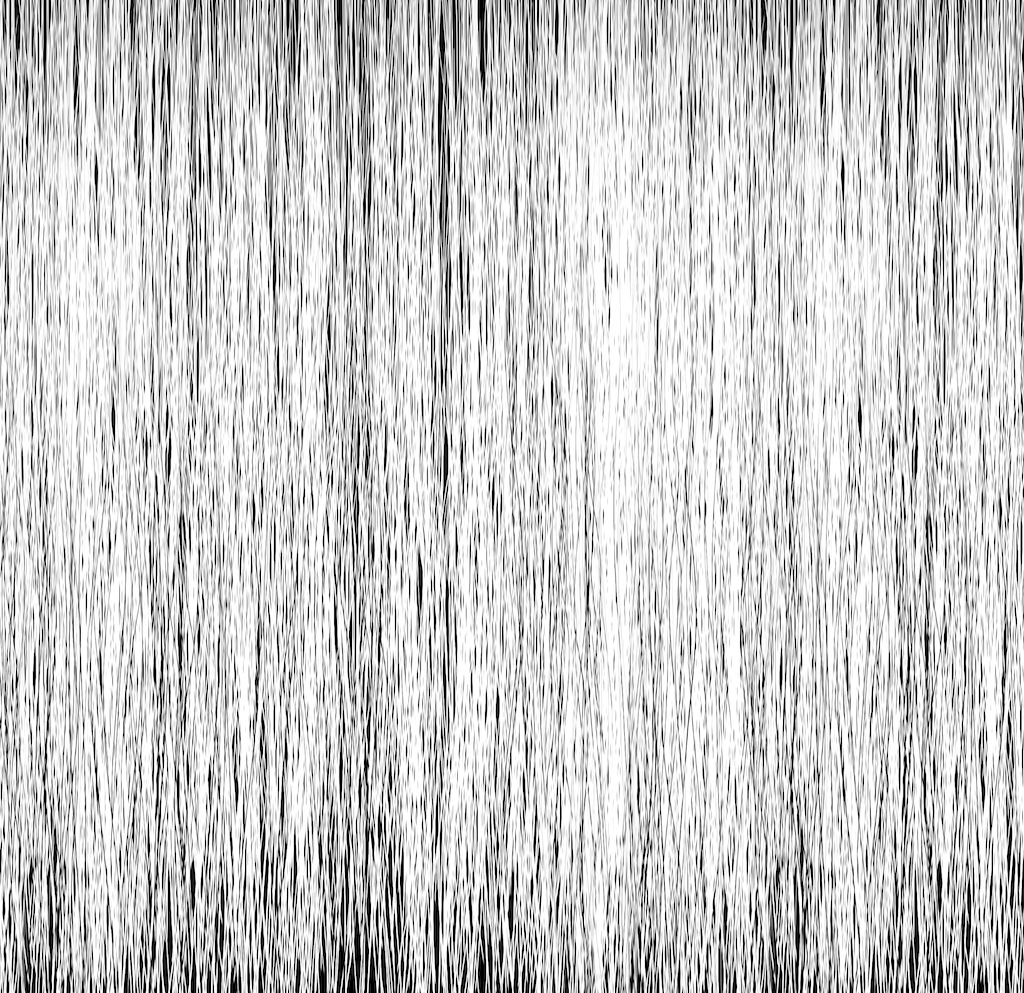
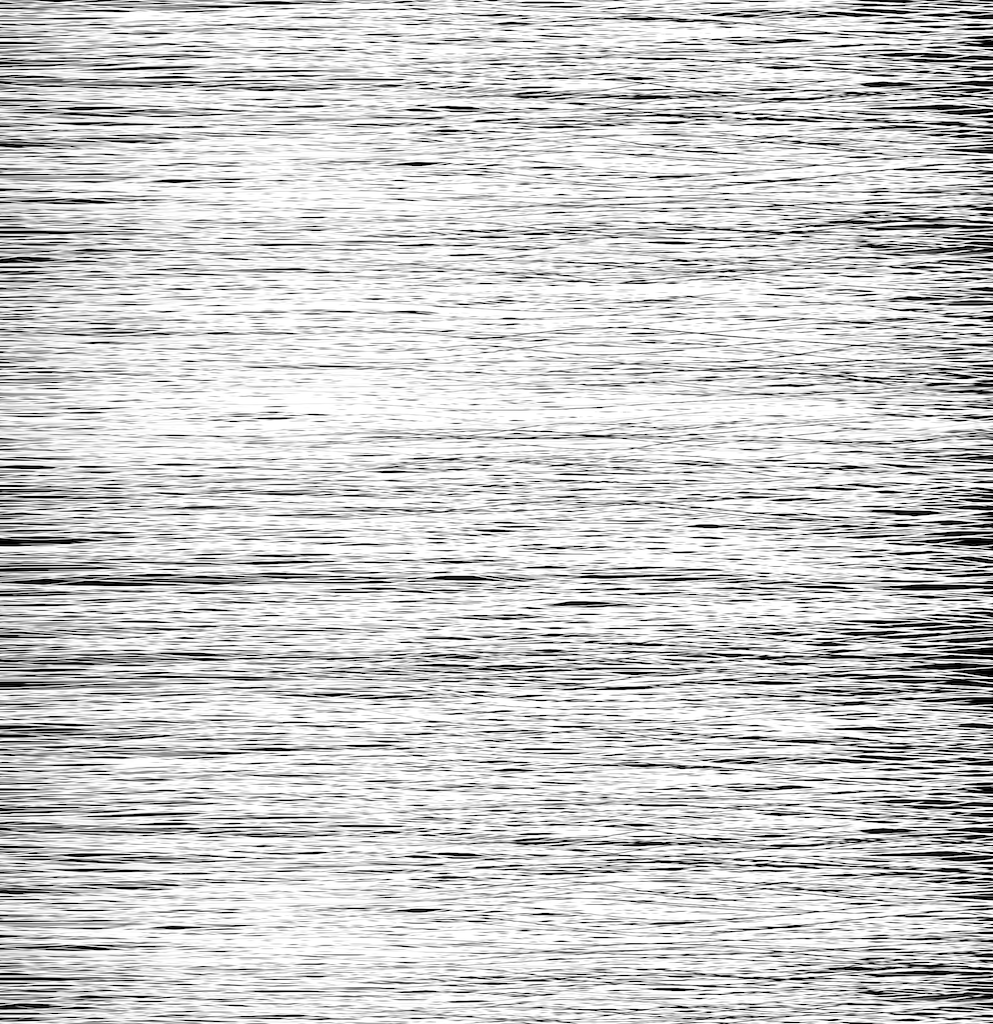
save

diff --git a/src/index.ts b/src/index.ts
@@ -20,6 +20,7 @@ engine.canvas.resizeByClientSize();
 
 const scene = engine.sceneManager.activeScene;
 const {ambientLight, background} = scene;
+ambientLight.diffuseSolidColor.set(1, 1, 1, 1);
 const rootEntity = scene.createRootEntity();
 
 const directLightNode = rootEntity.createChild("dir_light");
@@ -95,27 +96,26 @@ float hairStrandSpecular(vec3 T, vec3 V, vec3 L, float specPower) {
 	float sinTH = sqrt(1.0 - HdotT * HdotT);
 	float dirAtten = smoothstep(-u_specularWidth, 0.0, HdotT);
 	
-	return dirAtten * clamp(pow(sinTH, specPower), 0.0, 1.0) * u_specularScale;
+	return dirAtten * pow(sinTH, specPower);
 }
 
-vec4 getAmbientAndDiffuse(vec4 lightColor0, vec4 diffuseColor, vec3 N, vec3 L, vec2 uv) {
-	return (lightColor0 * diffuseColor * clamp(dot(N, L), 0.0, 1.0) + vec4(0.2, 0.2, 0.2, 1.0)) * u_hairTex_ST;
-}
-
-vec4 getSpecular(vec4 lightColor0, 
-				   vec4 primaryColor, float primaryShift,
+vec4 getSpecular(vec4 primaryColor, float primaryShift,
 				   vec4 secondaryColor, float secondaryShift,
 				   vec3 N, vec3 T, vec3 V, vec3 L, float specPower, vec2 uv) {
 	float shiftTex = texture2D(u_specularShift, uv).r - 0.5;
 
-	vec3 t1 = shiftTangent(T, N, primaryShift + shiftTex);
-	vec3 t2 = shiftTangent(T, N, secondaryShift + shiftTex);
+	vec3 t1 = shiftTangent(T, N, primaryShift);
+	vec3 t2 = shiftTangent(T, N, secondaryShift);
 
 	vec4 specular = vec4(0.0, 0.0, 0.0, 0.0);
-	specular += primaryColor * hairStrandSpecular(t1, V, L, specPower) * u_specularScale;;
-	specular += secondaryColor * hairStrandSpecular(t2, V, L, specPower) * u_specularScale;
+	specular += primaryColor * hairStrandSpecular(t1, V, L, specPower);
+	specular += secondaryColor * hairStrandSpecular(t2, V, L, specPower);
 
 	return specular;
+}
+
+vec4 getAmbientAndDiffuse(vec4 diffuseColor, vec3 N, vec3 L) {
+	return diffuseColor * clamp(mix(0.25, 1.0, dot(N, L)), 0.0, 1.0);
 }
 
 void main() {
@@ -124,53 +124,38 @@ void main() {
     vec3 T = tbn[0];
 	vec3 B = tbn[1];
 	vec3 V = normalize(v_pos);
-	vec3 L = normalize(u_directLightDirection[0]);
+	vec3 L = normalize(vec3(1.0, 1.0, 1.0)); // todo
 	vec3 H = normalize(L + V);
 	vec4 u_lightColor0 = vec4(u_directLightColor[0], 1.0);
 
-	vec4 ambientdiffuse = getAmbientAndDiffuse(u_lightColor0, vec4(u_envMapLight.diffuse, 1.0), N, L, v_uv);
-	vec4 specular = getSpecular(u_lightColor0, u_primaryColor, u_primaryShift, 
+	vec4 ambientdiffuse = getAmbientAndDiffuse(vec4(u_envMapLight.diffuse, 1.0), N, L);
+	vec4 specular = getSpecular(u_primaryColor, u_primaryShift, 
 								u_secondaryColor, u_secondaryShift, N, B, V, L, u_specPower, v_uv);
                 
-	glFragColor = ambientdiffuse + specular;
+	glFragColor = (ambientdiffuse + specular) * u_hairTex_ST * u_lightColor0;
 }
 `);
 
-const leftHair = new HairMaterial(engine);
-const leftHairColor = new Color();
-const rightHair = new HairMaterial(engine);
-const rightHairColor = new Color();
-
 Promise.all([
     engine.resourceManager
-        .load<GLTFResource>("http://30.46.128.43:8000/hair.glb")
+        .load<GLTFResource>("https://gw.alipayobjects.com/os/OasisHub/676000145/1682/Pocolov%252520Hair%25252016.gltf")
         .then((gltf) => {
             const entity = rootEntity.createChild("hair");
             entity.addChild(gltf.defaultSceneRoot);
-            entity.transform.setPosition(0, -2, 0);
-
-            const renderers: MeshRenderer[] = [];
-            entity.getComponentsIncludeChildren(MeshRenderer, renderers);
-            leftHairColor.copyFrom((<PBRMaterial>gltf.materials[0]).baseColor);
-            renderers[0].setMaterial(leftHair);
-            renderers[1].setMaterial(leftHair);
-            renderers[2].setMaterial(leftHair);
-
-            rightHairColor.copyFrom((<PBRMaterial>gltf.materials[1]).baseColor);
-            renderers[3].setMaterial(rightHair);
-            renderers[4].setMaterial(rightHair);
-            renderers[5].setMaterial(rightHair);
         }),
     engine.resourceManager
         .load<Texture2D>("http://30.46.128.43:8000/shift.png")
         .then((tex) => {
-            leftHair.specularShiftTexture = tex;
-            leftHair.hairColor = leftHairColor;
-            leftHair.primaryColor.set(1, 0, 0, 1);
-            leftHair.primaryShift = 1;
-
-            rightHair.specularShiftTexture = tex;
-            rightHair.hairColor = rightHairColor;
+            // leftHair.specularShiftTexture = tex;
+            // leftHair.hairColor = leftHairColor;
+            // leftHair.specularWidth = 0.1;
+            // leftHair.specularScale = 1;
+            // leftHair.specularPower = 1;
+            //
+            // leftHair.primaryColor.set(1, 1, 1, 1);
+            // leftHair.primaryShift = 0.1;
+            // leftHair.secondaryColor.set(1, 1, 1, 1);
+            // leftHair.secondaryShift = -0.1;
         })
 ]).then(() => {
     engine.run();
